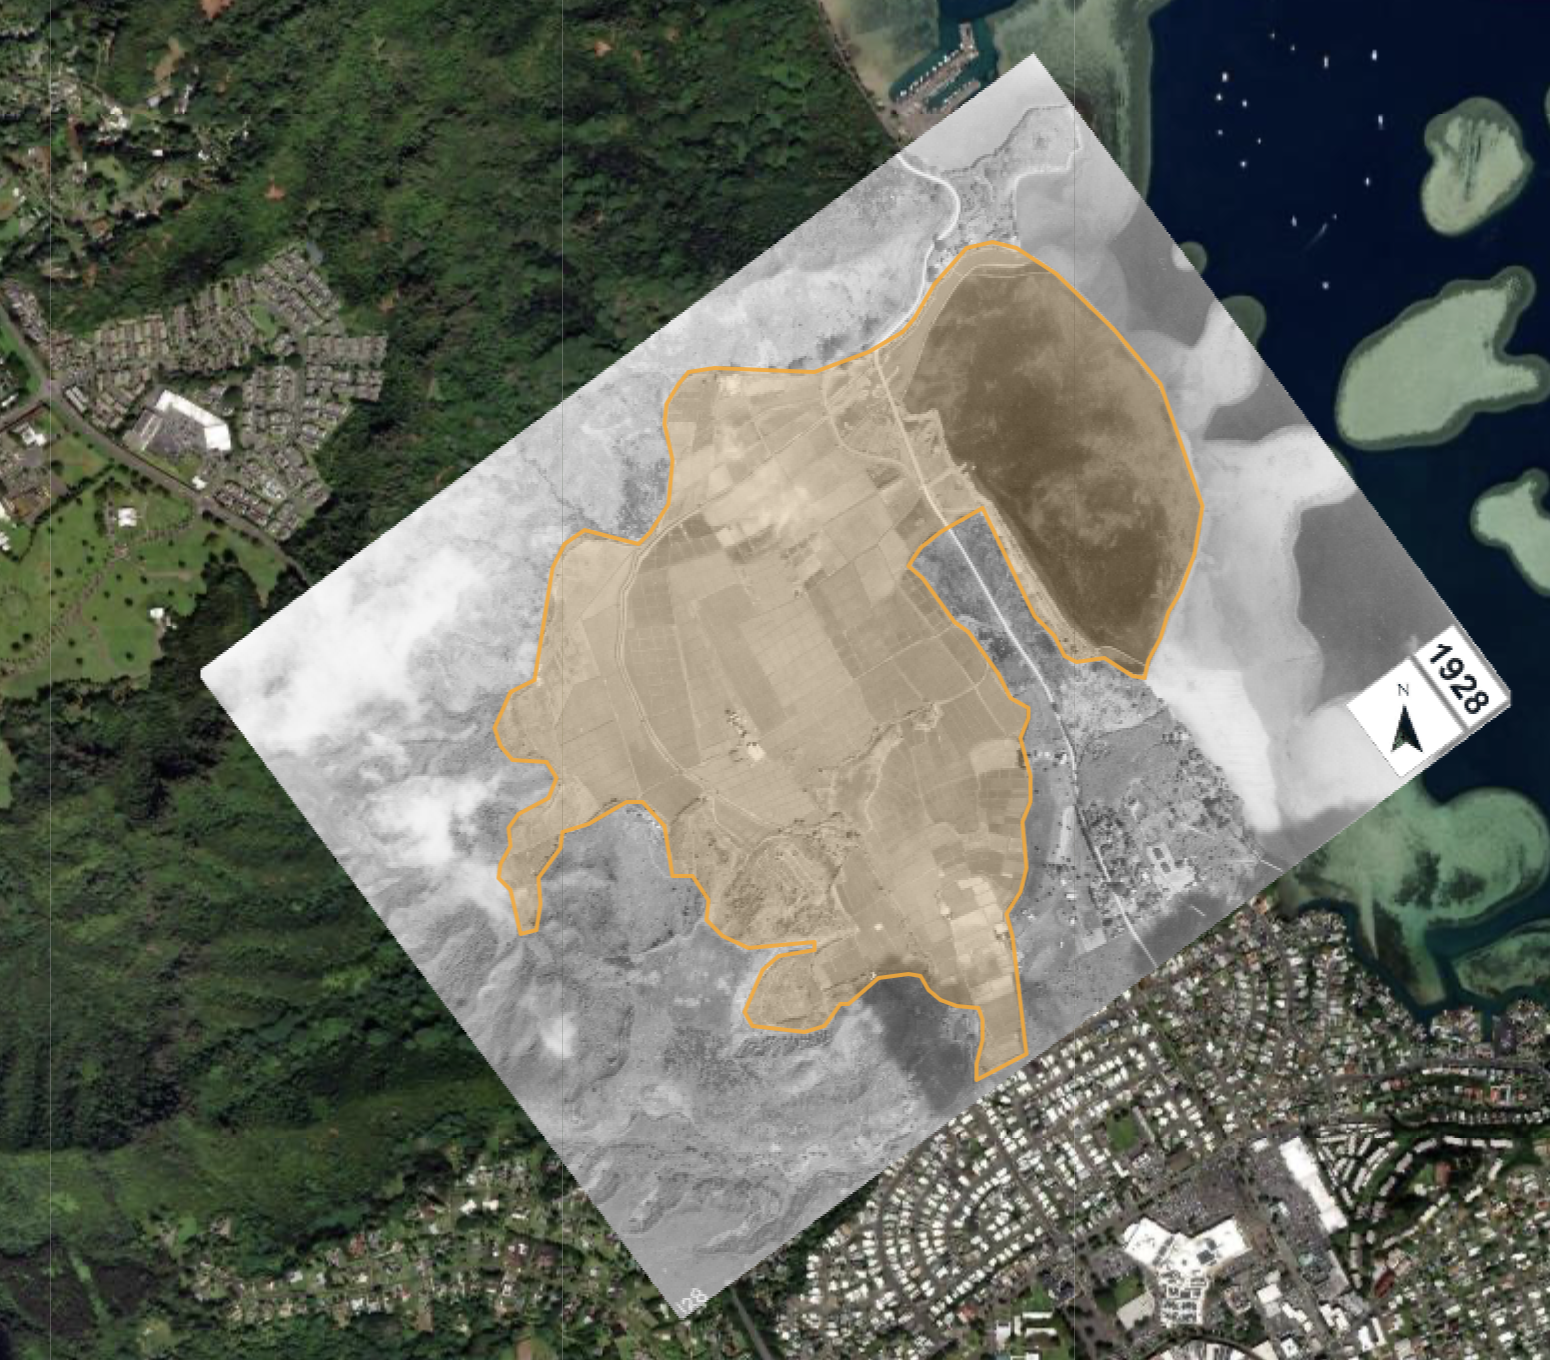
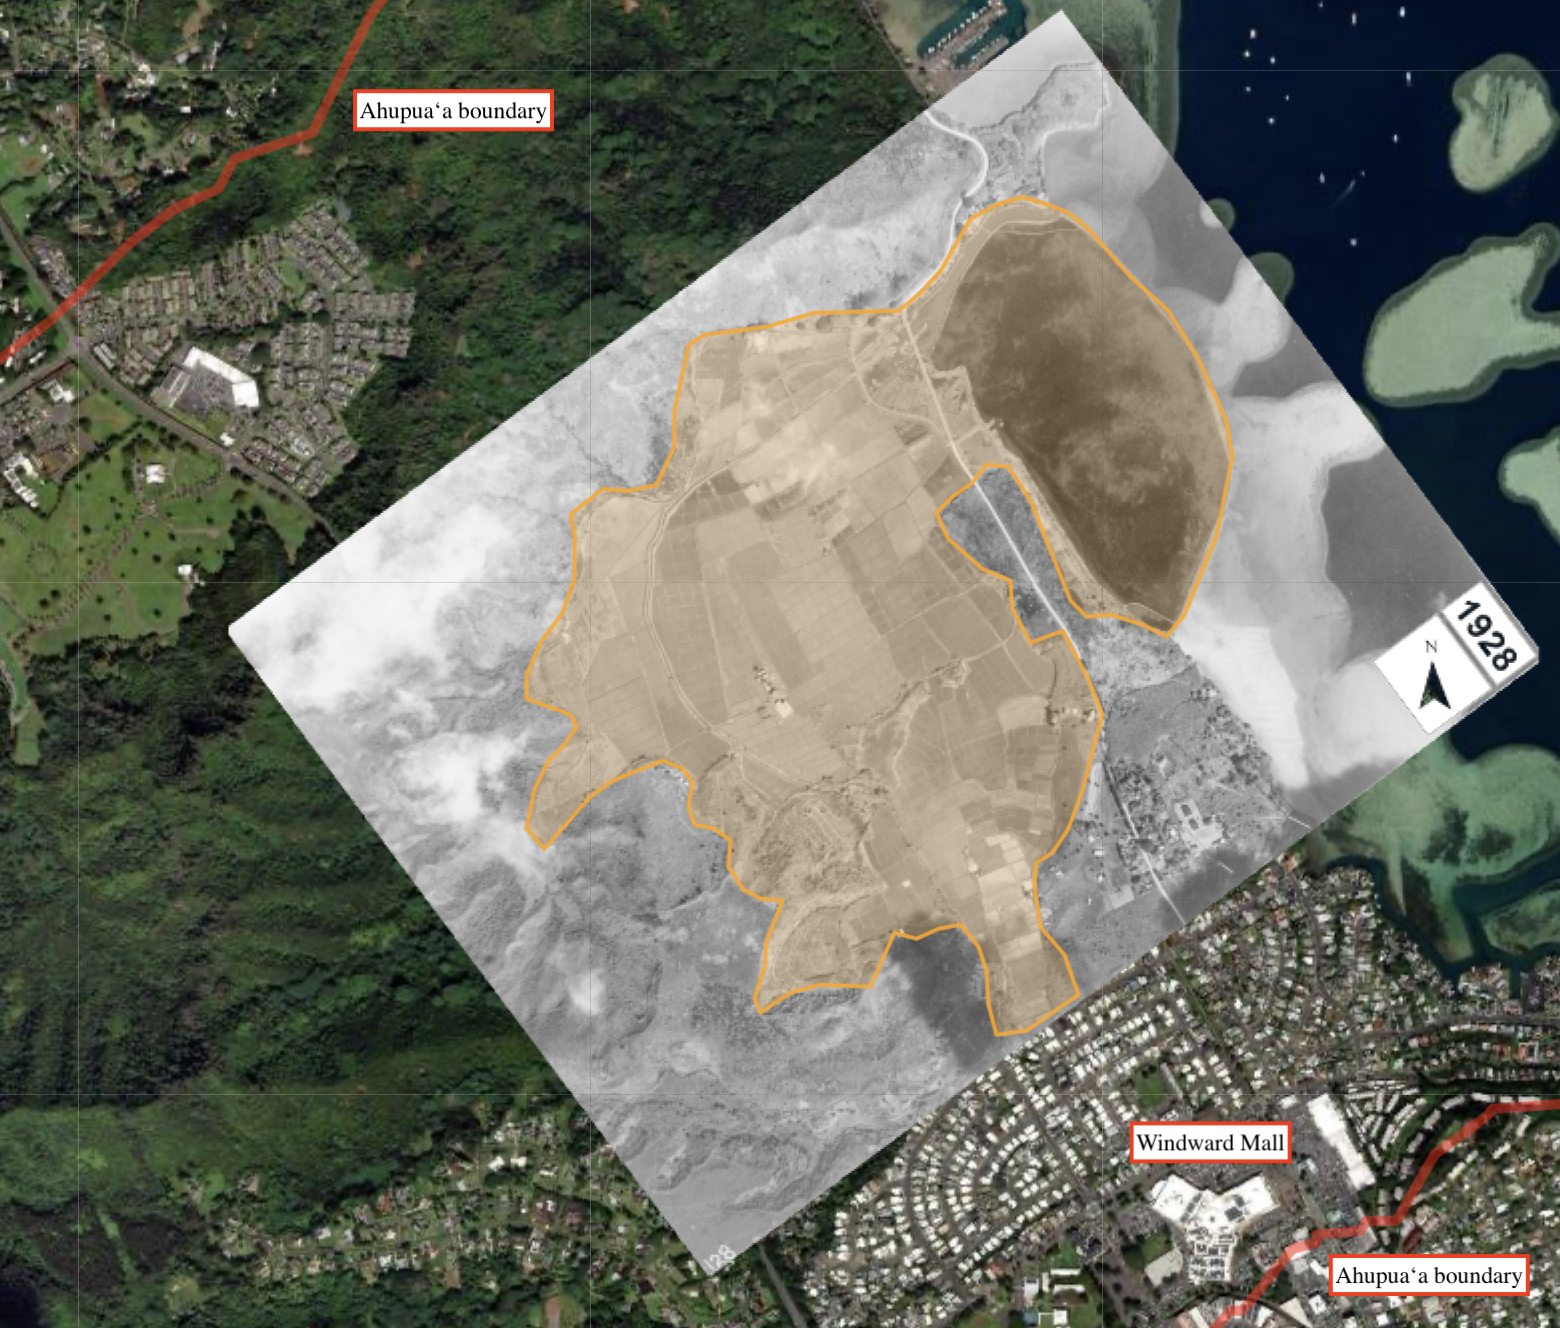
intro and typos

diff --git a/index.html b/index.html
@@ -72,8 +72,15 @@
   <h1>Recruitment Statement & Survey Consent</h1>
   
   <p>Aloha! You are being asked to participate in a research study conducted by (PhD Candidate) Louis Chua from the Natural Resources and Environmental Management Department at the University of Hawai‘i (Mānoa). 
-  The primary aim of this survey is to study individuals’ perceptions and value of ecosystem services to human beings, especially ecosystem services that may have relational and cultural value.
+  The primary aim of this survey is to study individuals’ perceptions and value of (He'eia ahupua'a) ecosystem services to Oʻahu residents, especially ecosystem services that have relational and cultural value.
   </p>
+  
+  <figure>
+    <img src="assets/images/heeia_ahu.jpg"  class="media">
+    <figcaption>
+      Heʻeia ahupuaʻa (in red), located on the windward coast of Oʻahu, between Kahaluʻu and Kāneʻohe ahupuaʻa.
+    </figcaption>
+  </figure>
   
   <p><b>Eligibility Criteria</b>
   You must be aged 18 or above, and be a current or former resident of Hawaiʻi.
@@ -84,12 +91,11 @@
   </p>
   
 
-  
-  <p><b>What am you being asked to do?</b> 
+  <p><b>What are you being asked to do?</b> 
   If you participate in this study, you will be asked to fill out a short survey. Taking part in this study is your choice and is completely voluntary. 
   You can choose to change your mind at any point during the survey. 
   If you choose to stop, there will be no penalty or loss to you. 
-  Note that you can only take the survey once.
+  Note that you can only take the survey <b>once</b>.
   </p>
 
   
@@ -105,7 +111,7 @@
   </p>
   
   <p><b>Privacy and Confidentiality:</b>
-  You will not be asked for any personal information, such as your name or address. 
+  You will NOT be asked for any personal information, such as your name or address. Your response will be anonymous.
   Please do not include such identifiable information in your survey responses. 
   Only the University of Hawai'i advisor (Dr Kirsten Oleson) and researcher (Louis Chua) will have access to the raw survey data. 
   Other agencies that have legal permission have the right to review research records. 
@@ -138,10 +144,10 @@
   </figure>
   
   <p>
-    Heʻeia today is one of the most actively restored ahupuaʻa systems on Oʻahu. While much of Oʻahu has become highly developed, Heʻeia stands apart as being a hub for ʻāina resotration.
+    Heʻeia today is one of the most actively restored ahupuaʻa systems on Oʻahu. While much of Oʻahu has become highly developed, Heʻeia stands apart as being a hub for ʻāina restoration.
     In Heʻeia, community decision making still lie amongst those who hold <b>deep lineal and relational connections</b> to the ahupuaʻa. 
     However, community fears and concerns about threats to the ahupuaʻa way of life are ever present. 
-    Located on <b>leased Kamehameha Schools and State lands</b>, restoration lands today inspire, give life, and nourish in more ways than one. 
+    Located on <b>leased Kamehameha Schools and State lands</b>, He'eia restoration lands today inspire, give life, and nourish in more ways than one. 
     It harbors and perpetuates generational moʻolelo (stories), including that of strong grassroots efforts to protect Heʻeia lands and water from development. 
     This ʻāina honors the care and love of generations past, and reflects the strong ethic of stewardship for <b>communities and future generations</b> 
     that will inherit the bountiful ʻāina of Heʻeia. 
@@ -204,7 +210,7 @@
   </p>
 
   <p>
-    This is a 1928 airphoto of Heʻeia showing the extent of flooded cultivated fields in the ahupua'a. It is a key restoration objective of many community members 
+    This is a 1928 airphoto within Heʻeia ahupuaʻa showing the extent of flooded cultivated fields. It is a key restoration objective of many community members 
     in Heʻeia. The orange boundary shows approximately <b>380 acres</b> of 'āina being restored. Existing expansion are limited by factors such as financing, labor, development pressure, invasion 
     by non-native species, and lack of freshwater.
   </p>
